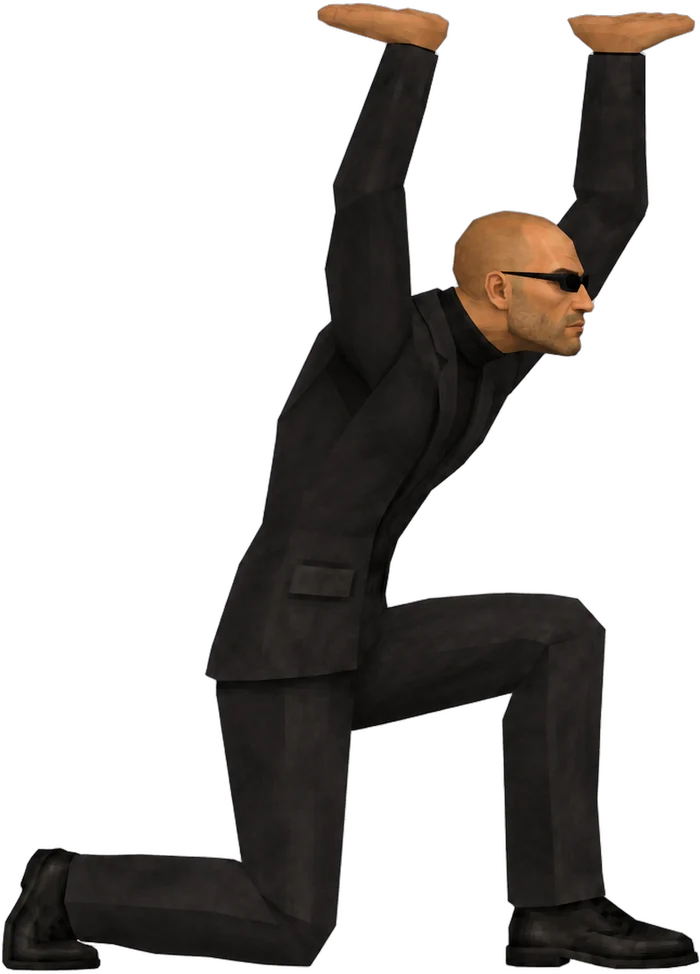
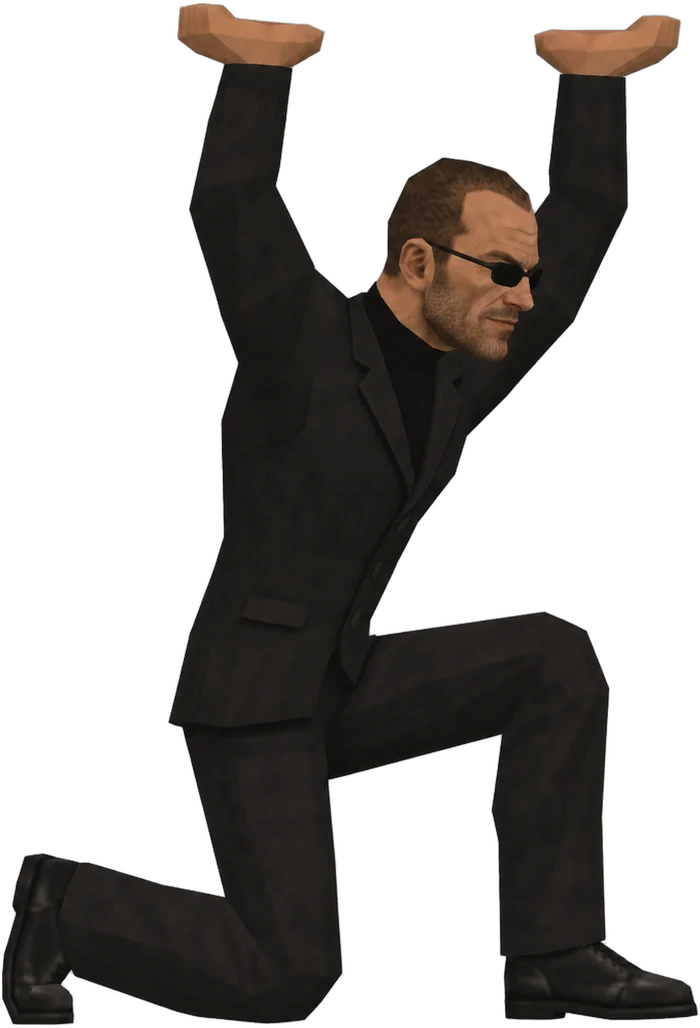
v2: лицо Стетема ближе к типажу (бритая голова с залысинами, щетина, прищур), синяя гамма — тёмные и светлые секции с синим бренда

diff --git a/app/v2/v2.css b/app/v2/v2.css
@@ -1,16 +1,17 @@
 /* Страница /v2. Всё под .v2, глобальные стили сайта не трогаем.
-   Палитра «как у Стетема»: графит, бетон, один акцент — тёмное золото. Тема сайта на неё не влияет */
+   Палитра: тёмные секции — глубокий тёмно-синий, светлые — почти белые; акцент — синий бренда. Тема сайта на неё не влияет */
 .v2 {
   --v2-head: 'Inter Tight';
-  --bg: #0f1012;
-  --bg2: #16171a;
-  --card: #1c1e22;
-  --line: #2f3238;
-  --text: #ece7dc;
-  --muted: #a39e94;
-  --gold: #d9a441;
-  --gold-hi: #e8b75a;
-  --gold-ink: #17120a;
+  --bg: #0a0c1a;
+  --bg2: #0f1226;
+  --card: #151a36;
+  --line: #262c52;
+  --text: #eef0fa;
+  --muted: #9aa1c4;
+  --gold: #7f8cff;          /* акцент текста на тёмном */
+  --gold-hi: #3d4dff;
+  --gold-ink: #ffffff;
+  --btn: #1f2fff;           /* кнопка: синий бренда, чуть ярче для тёмного фона */
   --ink: #000;
   background: var(--bg);
   color: var(--text);
@@ -24,7 +25,7 @@
 .v2 :focus-visible { outline: 2px solid var(--gold); outline-offset: 3px; }
 
 /* ---------- шапка ---------- */
-.v2-top { position: sticky; top: 0; z-index: 10; display: flex; align-items: center; justify-content: space-between; gap: 12px; padding: 10px 16px; background: rgba(15, 16, 18, .92); backdrop-filter: blur(8px); border-bottom: 1px solid var(--line); }
+.v2-top { position: sticky; top: 0; z-index: 10; display: flex; align-items: center; justify-content: space-between; gap: 12px; padding: 10px 16px; background: rgba(10, 12, 26, .92); backdrop-filter: blur(8px); border-bottom: 1px solid var(--line); }
 .v2-top__logo { font-family: var(--v2-head), 'Manrope', sans-serif; font-weight: 900; font-size: 15px; letter-spacing: .08em; text-decoration: none; }
 .v2-top__nav { display: flex; align-items: center; gap: 16px; }
 .v2-top__test { font-weight: 800; font-size: 15px; color: var(--gold) !important; text-decoration: underline; text-underline-offset: 4px; text-decoration-thickness: 1px; }
@@ -35,7 +36,7 @@
 .v2-btn { display: inline-block; padding: 13px 22px; font: 800 15px/1.2 'Manrope', sans-serif; letter-spacing: .04em; text-transform: uppercase; text-decoration: none; text-align: center; color: var(--text); background: transparent; border: 1px solid #5a5d63; border-radius: 4px; cursor: pointer; transition: background .15s, border-color .15s, transform .1s; }
 .v2-btn:hover { border-color: var(--text); }
 .v2-btn:active { transform: translateY(1px); }
-.v2-btn--red { color: var(--gold-ink) !important; background: var(--gold); border-color: var(--gold); box-shadow: 0 8px 24px rgba(217, 164, 65, .18); }
+.v2-btn--red { color: #fff !important; background: var(--btn); border-color: var(--btn); box-shadow: 0 8px 28px rgba(31, 47, 255, .35); }
 .v2-btn--red:hover { background: var(--gold-hi); border-color: var(--gold-hi); }
 .v2-btn--ghost { border-color: var(--line); }
 
@@ -46,13 +47,19 @@
 .v2-lead { font-size: 18px; color: var(--muted); margin-bottom: 28px; max-width: 640px; }
 .v2-section { padding: 72px 0; border-top: 1px solid var(--line); }
 .v2-section--blue { background: var(--bg2); }
-.v2-section--yellow { background: radial-gradient(ellipse at 20% 0%, rgba(217, 164, 65, .10), transparent 60%), var(--bg2); }
-.v2-section--paper { background: var(--bg2); }
+.v2-section--yellow { background: radial-gradient(ellipse at 20% 0%, rgba(31, 47, 255, .28), transparent 60%), var(--bg2); }
+/* светлые секции: свои значения переменных, компоненты внутри перекрашиваются сами */
+.v2-section:not(.v2-section--blue):not(.v2-section--yellow) {
+  --text: #0b0e22; --muted: #4b5274; --card: #ffffff; --line: #d6dbee; --gold: #000dc3; --btn: #000dc3; --gold-hi: #1a28e0;
+  background: #eef1fa; color: var(--text);
+}
+.v2-section--paper:not(.v2-section--blue) { background: #e3e8f6; }
+.v2-section:not(.v2-section--blue):not(.v2-section--yellow) .v2-btn--ghost { border-color: #b9bfd8; color: var(--text); }
 
 .v2-sticker { display: inline-block; padding: 5px 0; font-weight: 800; font-size: 13px; letter-spacing: .14em; text-transform: uppercase; color: var(--gold); border-bottom: 1px solid var(--gold); }
 
 /* ---------- первый экран ---------- */
-.v2-hero { position: relative; overflow: hidden; padding: 48px 0 64px; background: radial-gradient(ellipse 55% 70% at 72% 55%, rgba(236, 231, 220, .10), transparent 70%), var(--bg); }
+.v2-hero { position: relative; overflow: hidden; padding: 48px 0 64px; background: radial-gradient(ellipse 55% 70% at 72% 55%, rgba(90, 110, 255, .22), transparent 70%), var(--bg); }
 .v2-hero__grid { position: relative; display: grid; gap: 32px; align-items: center; }
 .v2-hero__sub { font-size: 19px; color: var(--muted); max-width: 560px; margin-bottom: 26px; }
 .v2-hero__actions { display: flex; flex-wrap: wrap; gap: 14px; margin-bottom: 26px; }
@@ -81,7 +88,7 @@
 /* ---------- цитаты ---------- */
 .v2-quotes { display: grid; gap: 16px; margin-top: 8px; }
 .v2-quote { display: grid; grid-template-columns: 72px 1fr; gap: 4px 16px; align-items: center; padding: 18px 20px; background: var(--card); border: 1px solid var(--line); border-left: 3px solid var(--gold); border-radius: 4px; }
-.v2-quote__face { grid-row: 1 / 3; width: 72px; height: 72px; object-fit: cover; object-position: 50% 0; border-radius: 50%; background: radial-gradient(circle at 50% 30%, #3a3d43, #1a1b1e); border: 1px solid var(--line); }
+.v2-quote__face { grid-row: 1 / 3; width: 72px; height: 72px; object-fit: cover; object-position: 50% 0; border-radius: 50%; background: radial-gradient(circle at 50% 30%, #c9d0ee, #8e97c2); border: 1px solid var(--line); }
 .v2-quote p { font-family: var(--v2-head), 'Manrope', sans-serif; font-weight: 800; font-size: 19px; line-height: 1.28; }
 .v2-quote span { font-size: 12px; letter-spacing: .1em; text-transform: uppercase; color: var(--gold); font-weight: 700; }
 
@@ -92,7 +99,7 @@
 .v2-signs span { color: var(--gold); font-size: 20px; line-height: 1.15; }
 .v2-conclusion { font-size: 20px; font-weight: 800; margin-bottom: 20px; }
 
-.v2-crush { position: relative; display: flex; flex-direction: column; align-items: center; padding-top: 10px; background: radial-gradient(ellipse 60% 55% at 50% 60%, rgba(236, 231, 220, .12), transparent 70%); }
+.v2-crush { position: relative; display: flex; flex-direction: column; align-items: center; padding-top: 10px; background: radial-gradient(ellipse 60% 55% at 50% 60%, rgba(90, 110, 255, .25), transparent 70%); }
 .v2-crush__pile { position: relative; z-index: 2; display: flex; flex-direction: column; align-items: center; margin-bottom: -8%; }
 .v2-crush__stone { font-size: clamp(30px, 5vw, 46px); margin-top: -6px; }
 .v2-crush__stone:nth-child(odd) { transform: rotate(-3deg); }
@@ -111,7 +118,7 @@
 .v2-get li { padding: 18px 20px; background: var(--card); border: 1px solid var(--line); border-radius: 4px; }
 .v2-get h3 { font-size: 19px; margin-bottom: 4px; }
 .v2-get p { color: var(--muted); }
-.v2-price { padding: 28px 24px; text-align: center; background: linear-gradient(180deg, #23211c, var(--card)); border: 1px solid var(--gold); border-radius: 4px; box-shadow: 0 20px 50px rgba(0, 0, 0, .45); }
+.v2-price { padding: 28px 24px; text-align: center; background: linear-gradient(180deg, #1a2050, #10143a); color: #eef0fa; --muted: #aab1d6; --gold: #8f9bff; border: 1px solid var(--gold); border-radius: 4px; box-shadow: 0 20px 50px rgba(10, 14, 60, .35); }
 .v2-price__start { font-weight: 800; font-size: 13px; letter-spacing: .12em; text-transform: uppercase; color: var(--gold); }
 .v2-price__amount { font-family: var(--v2-head), 'Manrope', sans-serif; font-weight: 900; font-size: 72px; line-height: 1.05; }
 .v2-price__per { font-weight: 800; margin-bottom: 12px; }
@@ -135,7 +142,7 @@
 .v2-quiz__q { font-size: 24px; line-height: 1.25; margin: 6px 0 20px; }
 .v2-quiz__opts { display: grid; gap: 10px; }
 .v2-opt { width: 100%; padding: 15px 18px; text-align: left; font: 700 17px/1.3 'Manrope', sans-serif; color: var(--text); background: var(--bg2); border: 1px solid var(--line); border-radius: 4px; cursor: pointer; transition: border-color .12s, background .12s, transform .12s; }
-.v2-opt:hover { border-color: var(--gold); background: #201e19; transform: translateX(4px); }
+.v2-opt:hover { border-color: var(--gold); background: #1a2050; transform: translateX(4px); }
 
 /* мем в результате */
 .v2-meme { position: relative; margin: 0; border: 1px solid var(--line); border-radius: 4px; overflow: hidden; background: #222; }
@@ -162,10 +169,10 @@
 .v2-faq p { padding: 0 18px 18px; color: var(--muted); }
 
 /* ---------- финал ---------- */
-.v2-final { padding: 72px 0; text-align: center; border-top: 1px solid var(--line); background: radial-gradient(ellipse 50% 60% at 50% 30%, rgba(236, 231, 220, .10), transparent 70%), #0a0a0b; }
+.v2-final { padding: 72px 0; text-align: center; border-top: 1px solid var(--line); background: radial-gradient(ellipse 50% 60% at 50% 30%, rgba(31, 47, 255, .35), transparent 70%), #070917; }
 .v2-final .v2-lead { margin-inline: auto; }
 .v2-final__face { width: 220px; height: auto; margin: 0 auto 14px; filter: drop-shadow(0 18px 18px rgba(0, 0, 0, .7)); }
-.v2-foot { padding: 28px 0 40px; font-size: 13px; color: #75716a; border-top: 1px solid var(--line); background: #0a0a0b; }
+.v2-foot { padding: 28px 0 40px; font-size: 13px; color: #7d84a8; border-top: 1px solid var(--line); background: #070917; }
 .v2-foot p + p { margin-top: 8px; }
 
 /* ---------- анимации ---------- */
@@ -198,7 +205,7 @@
 }
 /* телефон: картинка над заголовком, шапка в одну строку */
 @media (max-width: 759px) {
-  .v2-hero { padding-top: 20px; background: radial-gradient(ellipse 90% 30% at 50% 14%, rgba(236, 231, 220, .10), transparent 70%), var(--bg); }
+  .v2-hero { padding-top: 20px; background: radial-gradient(ellipse 90% 30% at 50% 14%, rgba(90, 110, 255, .22), transparent 70%), var(--bg); }
   .v2-hero__art { order: -1; min-height: 0; margin-top: -8px; }
 }
 @media (max-width: 420px) {

diff --git a/app/v2/page.tsx b/app/v2/page.tsx
@@ -109,7 +109,7 @@ export default function V2Page() {
                 </ul>
               </div>
               <div className="v2-hero__art" aria-hidden="true">
-                <img className="v2-hero__man" src="/v2/push.webp" alt="" width={900} height={839} fetchPriority="high" />
+                <img className="v2-hero__man" src="/v2/push.webp" alt="" width={900} height={786} fetchPriority="high" />
                 <span className="v2-stone v2-hero__stone">Должен</span>
               </div>
             </div>
@@ -122,7 +122,7 @@ export default function V2Page() {
               <ul className="v2-quotes">
                 {QUOTES.map((q, i) => (
                   <li className="v2-quote" key={q.t} style={{ ['--tilt' as string]: `${i % 2 ? 1.2 : -1.2}deg` }}>
-                    <img className="v2-quote__face" src="/v2/bust.webp" alt="" width={700} height={1313} loading="lazy" />
+                    <img className="v2-quote__face" src="/v2/bust.webp" alt="" width={700} height={1114} loading="lazy" />
                     <p>«{q.t}»</p>
                     <span>(с) Джейсон Стетем</span>
                     
@@ -218,7 +218,7 @@ export default function V2Page() {
 
           <section className="v2-final">
             <div className="v2-wrap">
-              <img className="v2-final__face" src="/v2/thumbs.webp" alt="Стетем показывает большой палец" width={700} height={885} />
+              <img className="v2-final__face" src="/v2/thumbs.webp" alt="Стетем показывает большой палец" width={700} height={882} />
               <h2 className="v2-h2">Стетем ждёт. Он не любит ждать</h2>
               <p className="v2-lead">Старт {startPhrase()}, {RECRUITMENT_NOTE.toLowerCase()}. Созвон бесплатный.</p>
               <Cta />

diff --git a/components/v2/QuizV2.tsx b/components/v2/QuizV2.tsx
@@ -102,7 +102,7 @@ export default function QuizV2() {
   if (!started) {
     return (
       <div className="v2-quiz">
-        <img className="v2-quiz__face" src="/v2/bust.webp" alt="" width={700} height={1313} />
+        <img className="v2-quiz__face" src="/v2/bust.webp" alt="" width={700} height={1114} />
         <div>
           <p className="v2-quiz__lead">Не уверен, что тебе в группу? Пять вопросов, и Стетем скажет, как есть.</p>
           <button

diff --git a/components/v2/Crushed.tsx b/components/v2/Crushed.tsx
@@ -27,7 +27,7 @@ export default function Crushed() {
           <span key={s} className="v2-stone v2-crush__stone" style={{ ['--i' as string]: i }}>{s}</span>
         ))}
       </div>
-      <img className="v2-crush__man" src="/v2/crushed.webp" alt="" width={700} height={974} loading="lazy" />
+      <img className="v2-crush__man" src="/v2/crushed.webp" alt="" width={700} height={1028} loading="lazy" />
     </div>
   )
 }
